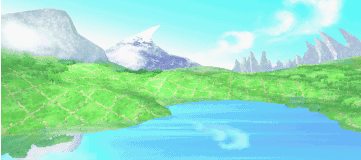
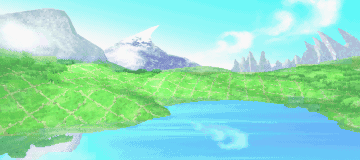
feature: 상하좌우 여유공간 32px

diff --git a/KirbyClone/KirbyGame/engine/GameApp.cpp b/KirbyClone/KirbyGame/engine/GameApp.cpp
@@ -124,6 +124,21 @@ namespace engine {
         // 3) RenderSystem(프로젝션) 갱신
         m_Render.OnResize ( sw , sh );
 
+        {
+            RECT wr0 = m_World.WorldRectPx ( );
+            if ( wr0.right > wr0.left && wr0.bottom > wr0.top ) {
+                const int viewW_world = sw / game::SCALE;
+                const int viewH_world = sh / game::SCALE;
+                const int padWorld = game::TILE_PX / 2;
+                RECT wr = wr0;
+                const int wldW = wr.right - wr.left , wldH = wr.bottom - wr.top;
+                if ( wldW > viewW_world ) { wr.left += padWorld; wr.right -= padWorld; }
+                if ( wldH > viewH_world ) { wr.top += padWorld; wr.bottom -= padWorld; }
+                m_Cam.SetWorldRect ( wr );
+                m_Cam.SnapImmediate ( );
+            }
+        }
+
         // 4) 카메라 화면 크기 갱신(오프셋/halfW,halfH 일치)
         m_Cam.SetScreenSize ( sw , sh );
         m_Cam.SnapImmediate ( );
@@ -218,7 +233,18 @@ namespace engine {
         if ( game::LoadPlayerStartCSV ( ( base + "/player_start.csv" ).c_str ( ) , ps ) && m_Player ) {
             m_Player->SetPosition ( ps.x , ps.y );
             m_Player->Body ( ).SetVelocity ( { 0.f, 0.f } );
-            m_Cam.SetWorldRect ( m_World.WorldRectPx ( ) );
+            auto * d3d = static_cast< D3D11Renderer* >( m_Renderer.get ( ) );
+            const int sw = d3d ? d3d->Width ( ) : 0;
+            const int sh = d3d ? d3d->Height ( ) : 0;
+            RECT wr0 = m_World.WorldRectPx ( );
+            const int viewW_world = sw / game::SCALE;   // 화면 가시폭(월드 픽셀)
+            const int viewH_world = sh / game::SCALE;   // 화면 가시높이(월드 픽셀)
+            const int padWorld = game::TILE_PX / 2;   // 반 타일(월드 픽셀) = 8
+            RECT wr = wr0;
+            const int w = wr.right - wr.left , h = wr.bottom - wr.top;
+            if ( w > viewW_world ) { wr.left += padWorld; wr.right -= padWorld; }
+            if ( h > viewH_world ) { wr.top += padWorld; wr.bottom -= padWorld; }
+            m_Cam.SetWorldRect ( wr );
             m_Cam.SetLookAt ( { ps.x, ps.y } );
             m_Cam.SnapImmediate ( );
         }
@@ -598,37 +624,55 @@ namespace engine {
         const int srcW = m_BgTex.width;
         const int srcH = m_BgTex.height;
 
-        const int BW = srcW * game::SCALE;
-        const int BH = srcH * game::SCALE;
+        const int BW = srcW * game::SCALE; // 배경 스케일 폭(스크린 px)
+        const int BH = srcH * game::SCALE; // 배경 스케일 높이(스크린 px)
 
         const RECT wr = m_World.WorldRectPx ( );
-        const int worldW = wr.right - wr.left;           // 예: 타일칸수 * 16
-        const int viewW_world = sw / game::SCALE;        // 화면 가시폭을 월드 픽셀로 환산(예: 960/4=240)
-        const int camMax = std::max ( 0 , worldW - viewW_world );
+        const int worldW = wr.right - wr.left;        // 월드 폭(월드 px)
+        const int worldH = wr.bottom - wr.top;        // 월드 높이(월드 px)
+        const int viewW_world = sw / game::SCALE;     // 화면 폭(월드 px)
+        const int viewH_world = sh / game::SCALE;     // 화면 높이(월드 px)
 
-        // bgMax: 배경이 보여줄 수 있는 여유 폭(= 배경폭 - 화면폭) → 1440-960=480
-        const int bgMax = std::max ( 0 , BW - sw );
+        // 반 타일(=32px 스크린) 여유
+        const int padWorld = game::TILE_PX / 2;            // 8 (월드 px)
+        const int padScreen = padWorld * game::SCALE;       // 32 (스크린 px)
 
-        // 카메라 위치(ox)를 배경 여유 폭(bgMax)로 '0..camMax → 0..bgMax' 비율 매핑
-        // 이렇게 하면 맵 왼쪽 끝에서 bgX=0, 오른쪽 끝에서 bgX=480이 됩니다.
-        const int bgX_px = ( camMax > 0 )
-            ? ( int ) std::round ( ( double ) ox * ( double ) bgMax / ( double ) camMax )
-            : 0;
+        // --- X축: 카메라 유효 이동폭 & 배경 유효 이동폭(패드 반영) ---
+        const int camMaxX = std::max ( 0 , ( worldW - viewW_world ) - 2 * padWorld ); // 월드 px
+        const int bgMaxX = std::max ( 0 , BW - sw );                                // 스크린 px (전체 여유)
+        const int bgPadX = std::min ( padScreen , bgMaxX / 2 );                     // 배경도 좌우 32px 안쪽만 사용
+        const int bgMaxEffX = std::max ( 0 , bgMaxX - 2 * bgPadX );                  // 스크린 px
 
-        // --- srcRECT 계산 (원본 텍스처 픽셀 단위) ---
+        const int oxEff = std::clamp ( ox - ( (int)wr.left + padWorld ) , 0 , camMaxX );     // 월드 px
+        const int bgX_px = ( camMaxX > 0 ) ? ( int ) std::lround ( ( double ) oxEff * ( double ) bgMaxEffX / ( double ) camMaxX ) : 0;
+        const int srcLeftTex = ( bgX_px + bgPadX ) / game::SCALE;                   // 텍스처 px
+
+        // --- Y축: 세로도 가능하면 같은 방식으로(배경 높이가 충분할 때만 패드 적용) ---
+        const int camMaxY = std::max ( 0 , ( worldH - viewH_world ) - 2 * padWorld );  // 월드 px
+        const int bgMaxY = std::max ( 0 , BH - sh );                                // 스크린 px
+        const int bgPadY = std::min ( padScreen , bgMaxY / 2 );                     // 상하 32px, 가능할 때만
+        const int bgMaxEffY = std::max ( 0 , bgMaxY - 2 * bgPadY );
+
+        const int oyEff = std::clamp ( oy - ( ( int ) wr.top + padWorld ) , 0 , camMaxY );      // 월드 px
+        const int bgY_px = ( camMaxY > 0 ) ? ( int ) std::lround ( ( double ) oyEff * ( double ) bgMaxEffY / ( double ) camMaxY ) : 0;
+        const int srcTopTex = ( bgY_px + bgPadY ) / game::SCALE;                    // 텍스처 px
+
+        // --- srcRECT (원본 텍스처 픽셀 단위) ---
         const int viewW_tex = sw / game::SCALE;  // 960/4 = 240
         const int viewH_tex = sh / game::SCALE;  // 640/4 = 160
-        int srcLeft = bgX_px / game::SCALE;      // 스케일을 되돌려서 텍스처 좌표로
-        // 범위 클램프(경계 초과 방지)
-        srcLeft = std::clamp ( srcLeft , 0 , srcW - viewW_tex );
 
-        RECT src = { srcLeft, 0, srcLeft + viewW_tex, viewH_tex };
+        RECT src{
+            std::clamp ( srcLeftTex, 0, std::max ( 0, srcW - viewW_tex ) ),
+            std::clamp ( srcTopTex,  0, std::max ( 0, srcH - viewH_tex ) ),
+            0, 0
+        };
+        src.right = src.left + viewW_tex;
+        src.bottom = src.top + viewH_tex;
 
-        // --- 단 한 번만 그리기: 화면(0,0)-(sw,sh)에 배경 한 장 클리핑해서 꽉 채움 ---
-        m_Batch->Draw ( m_BgTex ,
-                      0.0f , 0.0f , ( float ) sw , ( float ) sh ,
-                      &src , 0xFFFFFFFF );
+        // 한 번만 그리기: (0,0)-(sw,sh)로 꽉 채움
+        m_Batch->Draw ( m_BgTex , 0.f , 0.f , ( float ) sw , ( float ) sh , &src , 0xFFFFFFFF );
     }
+
 
 
     void GameApp::RenderDebugGridAndColliders ( int ox , int oy , int sw , int sh ) {
